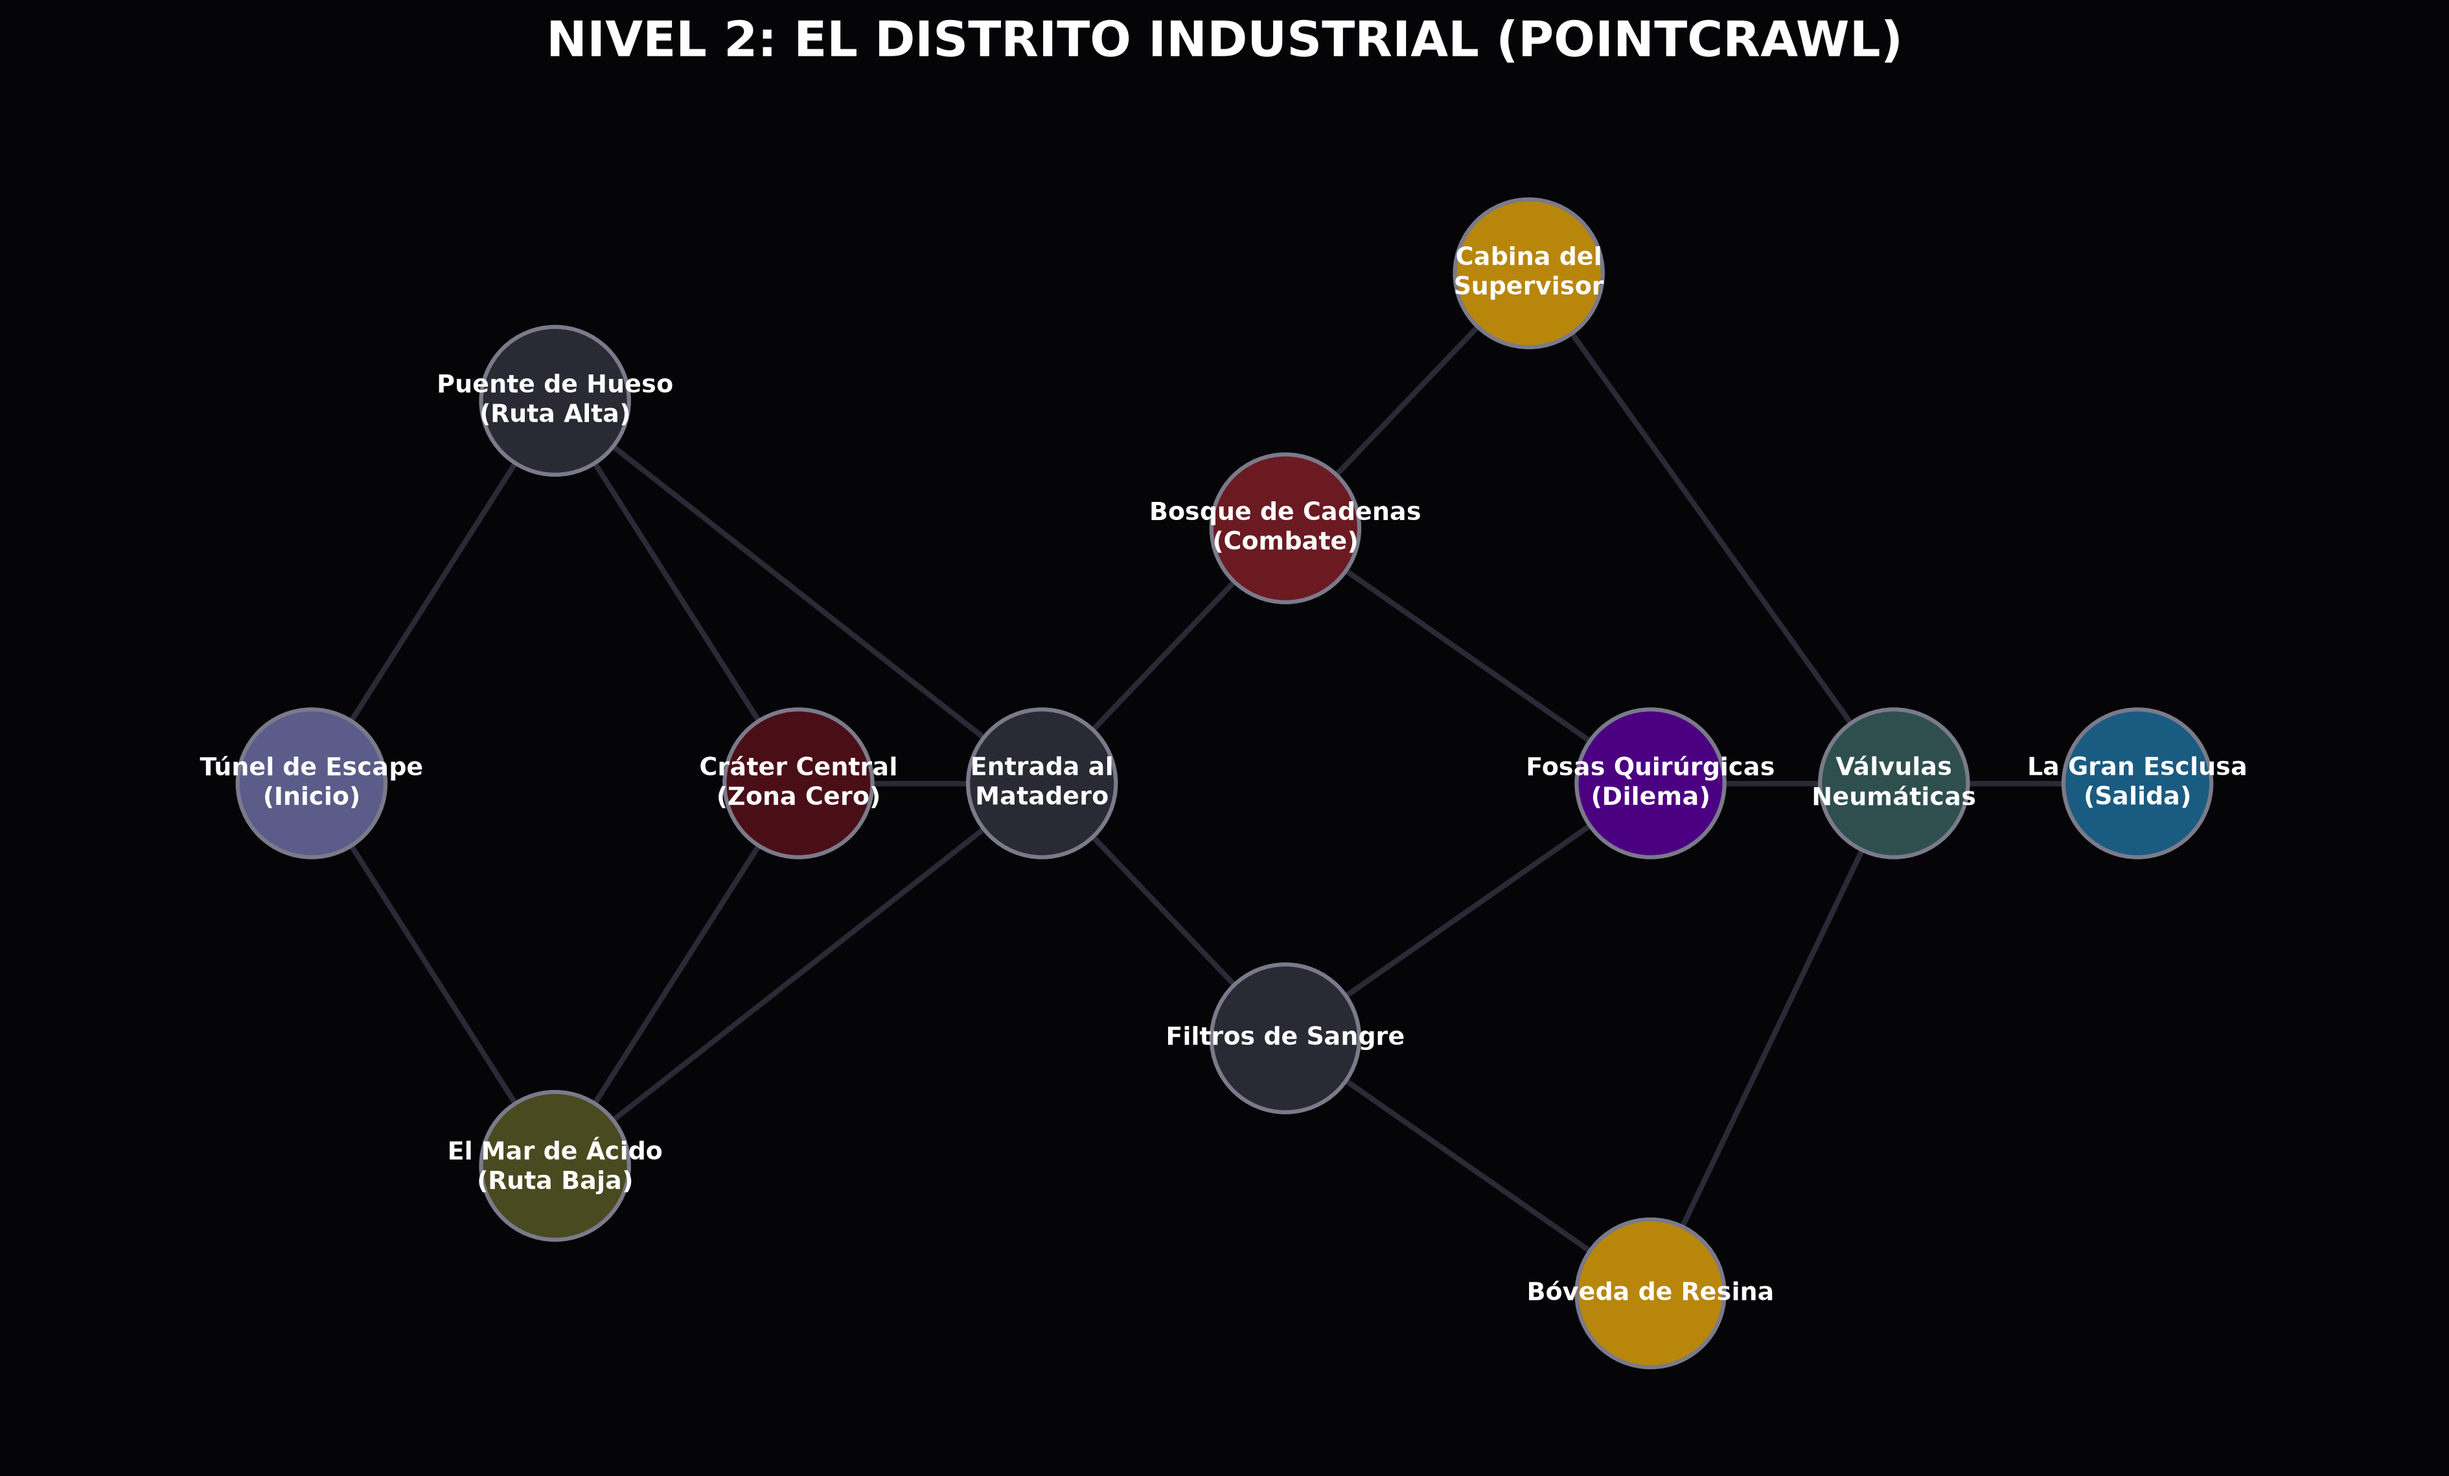
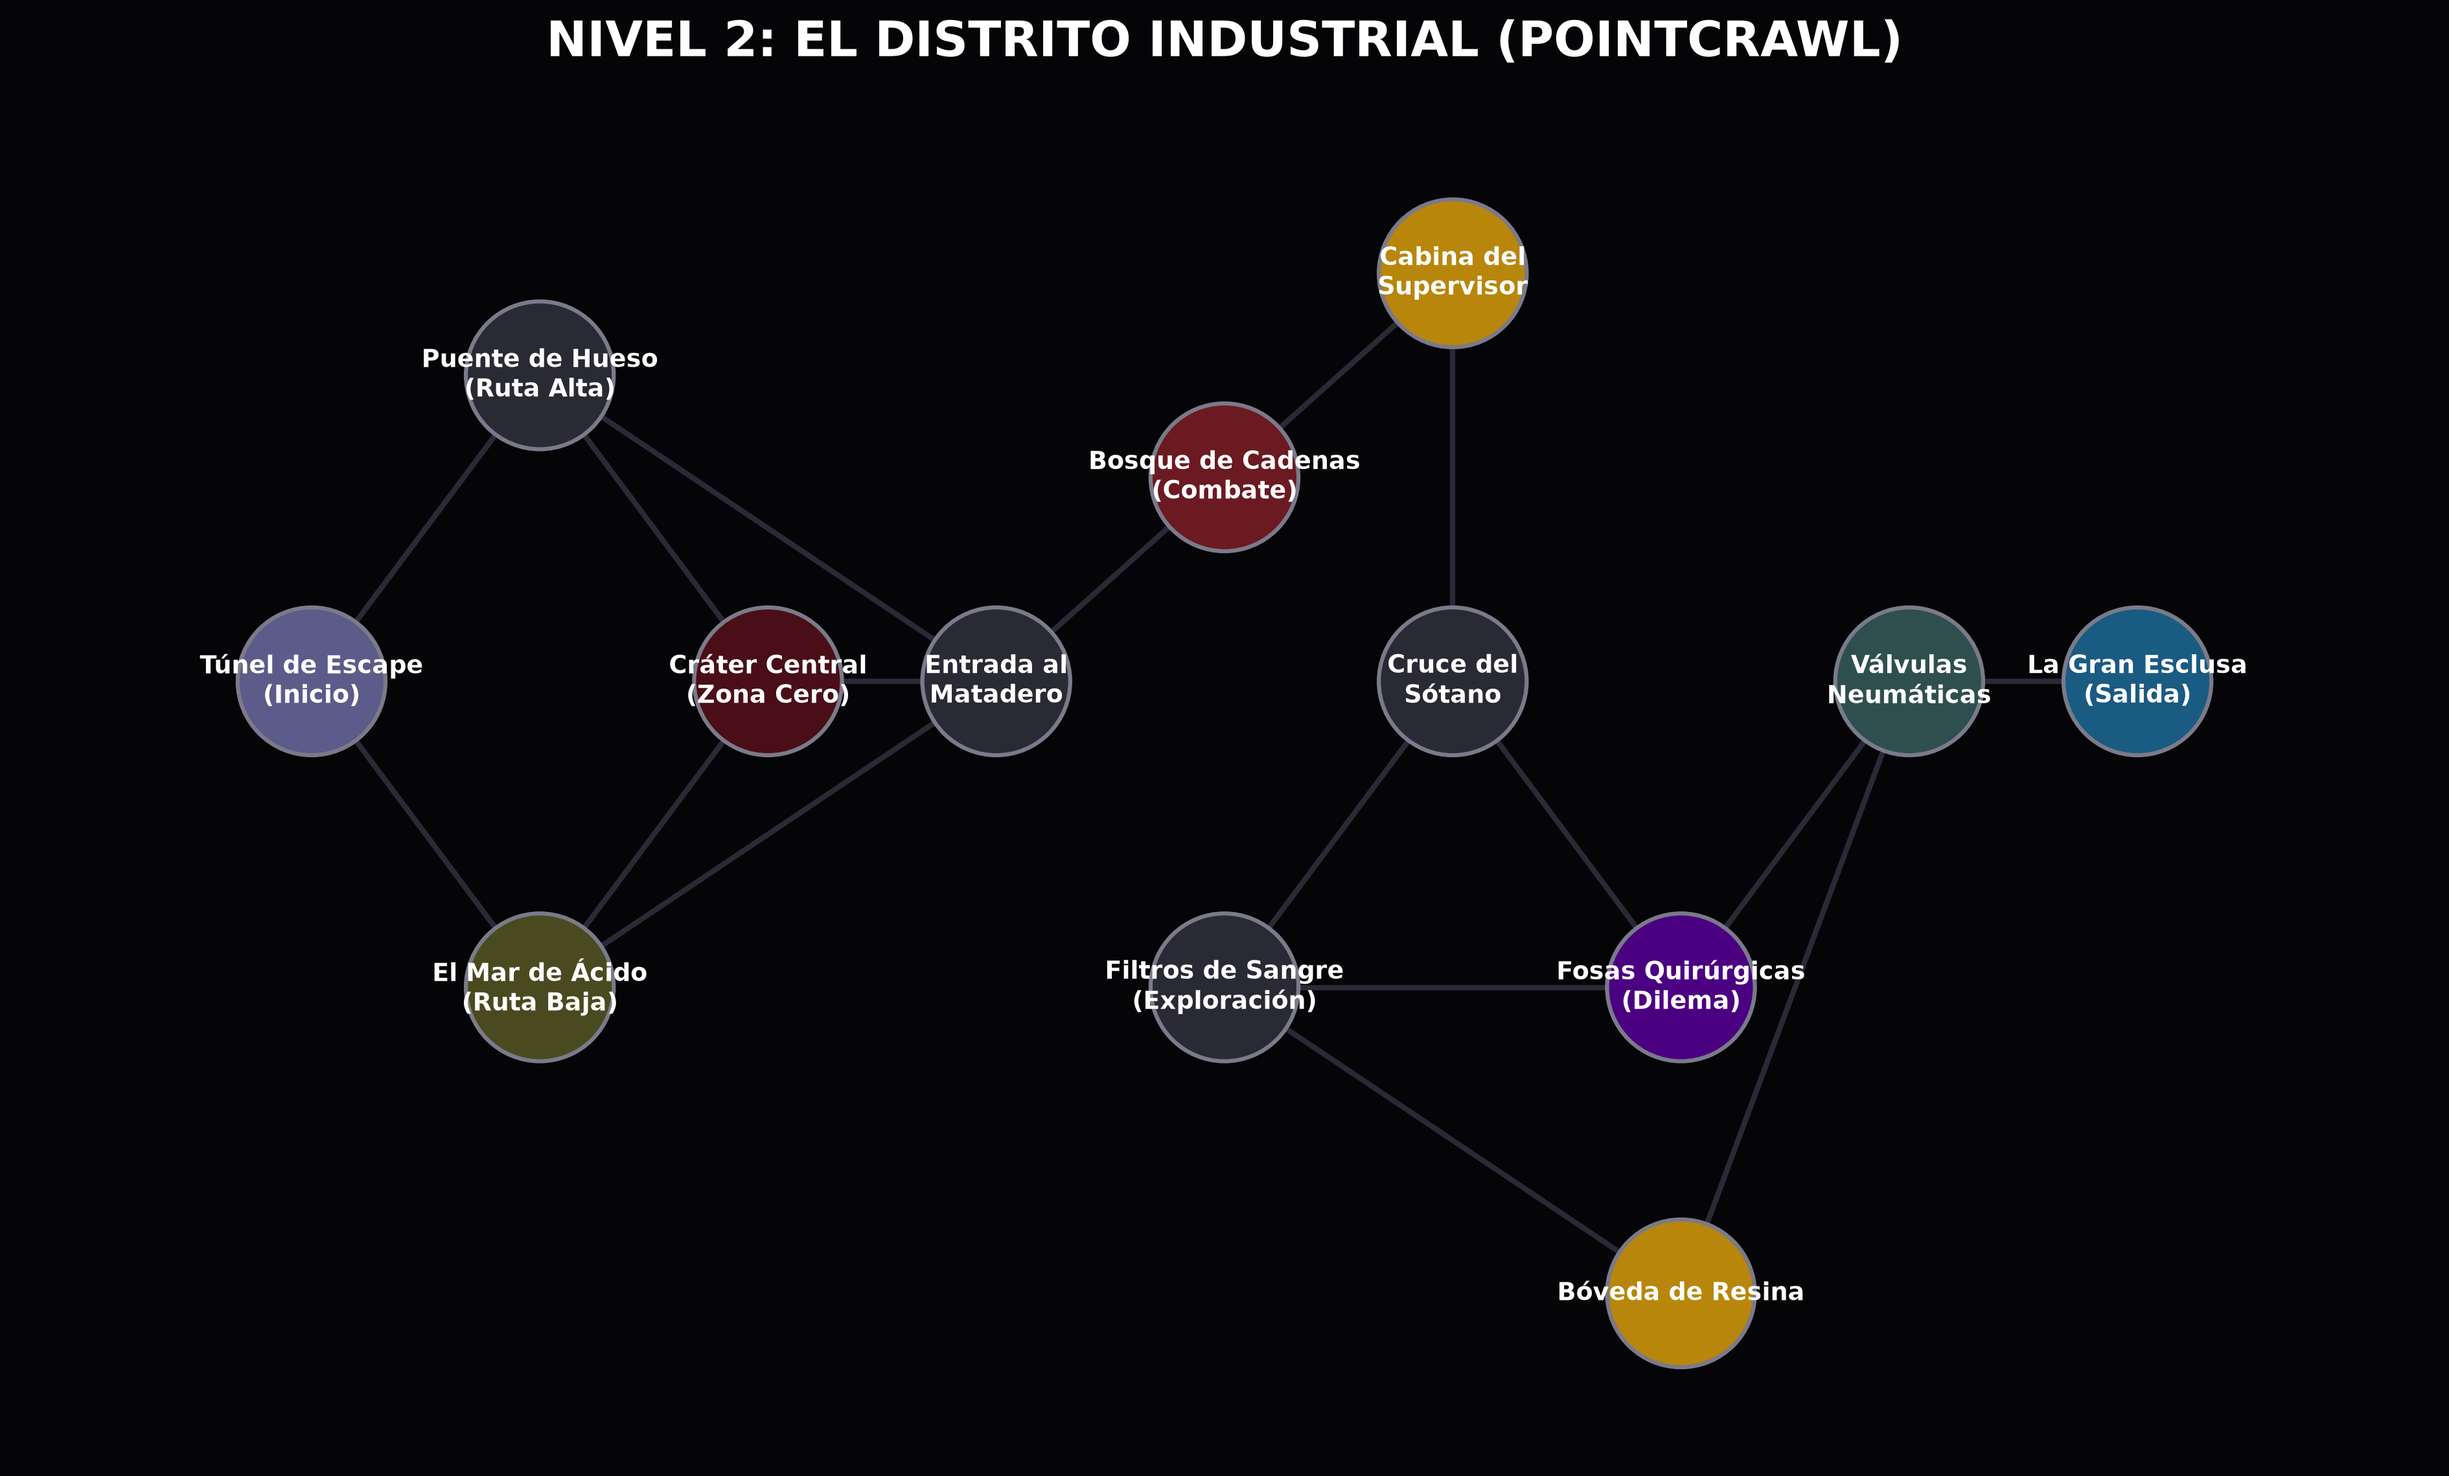
feat(modules): update pointcrawl map and write Module 03 (Filtros de Sangre)

diff --git a/core-books/transcendence-campaign-modules/scripts/generate_map_02.py b/core-books/transcendence-campaign-modules/scripts/generate_map_02.py
@@ -17,16 +17,17 @@ def create_pointcrawl_map(output_path):
         # NODO 2: Nave de Drenaje (Matadero)
         "Entrada al\nMatadero": {"pos": (6, 0), "cat": "path"},
         "Bosque de Cadenas\n(Combate)": {"pos": (8, 1), "cat": "combat"},
-        "Filtros de Sangre": {"pos": (8, -1), "cat": "path"},
         "Cabina del\nSupervisor": {"pos": (10, 2), "cat": "loot"},
+        "Cruce del\nSótano": {"pos": (10, 0), "cat": "path"},
+        "Filtros de Sangre\n(Exploración)": {"pos": (8, -1.5), "cat": "path"},
         
         # NODO 3: Anfiteatros
-        "Fosas Quirúrgicas\n(Dilema)": {"pos": (11, 0), "cat": "story"},
-        "Bóveda de Resina": {"pos": (11, -2), "cat": "loot"},
+        "Fosas Quirúrgicas\n(Dilema)": {"pos": (12, -1.5), "cat": "story"},
+        "Bóveda de Resina": {"pos": (12, -3), "cat": "loot"},
         
         # NODO 4: La Esclusa
-        "Válvulas\nNeumáticas": {"pos": (13, 0), "cat": "puzzle"},
-        "La Gran Esclusa\n(Salida)": {"pos": (15, 0), "cat": "exit"}
+        "Válvulas\nNeumáticas": {"pos": (14, 0), "cat": "puzzle"},
+        "La Gran Esclusa\n(Salida)": {"pos": (16, 0), "cat": "exit"}
     }
     
     # Add nodes to graph
@@ -44,13 +45,13 @@ def create_pointcrawl_map(output_path):
         ("Cráter Central\n(Zona Cero)", "Entrada al\nMatadero"),
         
         ("Entrada al\nMatadero", "Bosque de Cadenas\n(Combate)"),
-        ("Entrada al\nMatadero", "Filtros de Sangre"),
         ("Bosque de Cadenas\n(Combate)", "Cabina del\nSupervisor"),
-        ("Bosque de Cadenas\n(Combate)", "Fosas Quirúrgicas\n(Dilema)"),
-        ("Filtros de Sangre", "Fosas Quirúrgicas\n(Dilema)"),
-        ("Filtros de Sangre", "Bóveda de Resina"),
+        ("Cabina del\nSupervisor", "Cruce del\nSótano"),
+        ("Cruce del\nSótano", "Filtros de Sangre\n(Exploración)"),
+        ("Cruce del\nSótano", "Fosas Quirúrgicas\n(Dilema)"),
+        ("Filtros de Sangre\n(Exploración)", "Bóveda de Resina"),
+        ("Filtros de Sangre\n(Exploración)", "Fosas Quirúrgicas\n(Dilema)"),
         
-        ("Cabina del\nSupervisor", "Válvulas\nNeumáticas"),
         ("Fosas Quirúrgicas\n(Dilema)", "Válvulas\nNeumáticas"),
         ("Bóveda de Resina", "Válvulas\nNeumáticas"),
         

diff --git a/core-books/transcendence-campaign-modules/es/01-contenedores-vacios.md b/core-books/transcendence-campaign-modules/es/01-contenedores-vacios.md
@@ -469,3 +469,44 @@ Una vez derrotados los parásitos, el combate termina pero el trabajo logístico
 *   **Hacia Abajo (Descenso Forzado):** Sin otra opción para activar el montacargas, los jugadores deben abrir unas pesadas escotillas rojas en el suelo de la cabina y descender hacia los sótanos oscuros de la nave: **Los Anfiteatros de Escultura (Nodo 3)**. Desde la negrura del pozo, se escucha el eco de un quejido agonizante.
 
 **FIN DEL MÓDULO 02**
+
+---
+
+# Módulo 03: Los Anfiteatros de Escultura
+
+*Cuarto segmento del módulo introductorio. Un descenso a la oscuridad que divide al grupo entre la exploración táctica por recursos vitales y un dilema moral que subvertirá sus expectativas heroicas.*
+
+## 1. El Cruce del Sótano (La Bifurcación)
+
+Al descender por las frías escotillas de la cabina, los personajes se adentran en el verdadero vientre de la bestia. El aire aquí abajo es radicalmente distinto: denso, caliente y saturado de un olor cobrizo que marea. Un solitario pasillo de metal oxidado avanza unos metros en la penumbra hasta terminar en una intersección en "T". 
+
+En la pared de basalto frente a ellos, un grabado Vesper manchado de sangre indica los caminos:
+*   **A la Izquierda (Oeste):** Un túnel del que emana un espeso vapor verdoso y el sonido de líquido burbujeante. Una placa reza: *Filtros de Sangre / Bóveda de Resina*.
+*   **A la Derecha (Este):** Un pasillo lúgubre, flanqueado por inmensas costillas incrustadas en la roca. De allí proviene un eco inconfundible: la respiración rasposa y los quejidos de algo agonizante. La placa reza: *Fosas Quirúrgicas*.
+
+*(Nota para el Narrador: Los jugadores pueden explorar los Filtros primero para recuperar recursos, o ir directo al origen de los gritos. Esta sección detalla la ruta Oeste. El encuentro en las Fosas se abordará en la siguiente parte del módulo).*
+
+## 2. Los Filtros de Sangre (La Ruta Oeste)
+
+### El Terreno y la Atmósfera
+Si deciden explorar los Filtros de Sangre, el túnel desemboca en una inmensa caverna artificial cilíndrica. No hay suelo visible; la base entera de la caverna es un pozo de **Fango** de 4 metros de profundidad. Este "fango" es una mezcla tóxica de sangre Vesper coagulada, bilis y químicos de embalsamar desechados por las fosas quirúrgicas.
+
+Suspendida a solo centímetros por encima de esta sopa letal, se extiende una intrincada y frágil red de tuberías de bronce, válvulas giratorias, y gigantescos filtros porosos cubiertos de moho. 
+
+En la pared opuesta de la caverna (a unos 20 metros de distancia), parpadean unas luces de emergencia azules, iluminando los **Gabinetes de Esterilización**. A simple vista, los jugadores pueden distinguir los maletines metálicos que contienen *Kits de Conservación*, *Jeringas de Adrenalina* y bio-gel curativo.
+
+### El Desafío de Navegación (Peligro Ambiental)
+Este es un desafío puro de exploración, desgaste y riesgo/recompensa. No hay monstruos aquí; la instalación misma es la trampa mortal.
+
+*   **Peligro Aéreo (Vapor Tóxico):** El ambiente de la caverna exuda gases ácidos. Por cada 10 minutos (tiempo narrativo) que los personajes pasen intentando cruzar, deben realizar una **Tirada de Resistencia contra Venenos**. Si fallan, ganan el Agravio de Veneno: **Escaldado (Leve)** debido a que el alcaloide cáustico les quema las mucosas respiratorias y los ojos, dificultando sus Tiradas de Ataque.
+*   **La Travesía (Acrobacias):** Para avanzar sobre la resbaladiza red de tuberías hacia el botín, los jugadores deben usar su movilidad, equilibro e ingenio. Obliga a tirar pruebas de *Agilidad / Atletismo*. El uso creativo de herramientas (cuerdas, garras de escalada) otorga ventajas. 
+*   **El Castigo del Fango:** Si un personaje falla su prueba de travesía, no muere, pero cae de bruces al pozo de sangre química. El personaje sufre de inmediato **1 Punto de Corrupción** al tragar accidentalmente el fango biológico. Además, salir de la espesa mezcla requiere una tirada de *Fuerza* difícil o la ayuda de un aliado lanzándole una cuerda.
+
+### El Rompecabezas del Botín
+Al llegar a los gabinetes, descubren que están cerrados herméticamente por paneles de cristal templado. Si deciden romper el cristal a la fuerza bruta, se activará un aspersor de purga de emergencia que empapará el botín en ácido, arruinando los suministros médicos y dañando a los jugadores de cerca. 
+
+Para obtener los suministros limpios, deben realizar una prueba de *Intelecto / Sabotaje* para forzar la cerradura neumática Vesper, o ingeniárselas para congelar el aspersor antes de reventar el cristal.
+
+Si tienen éxito, recuperan los suministros vitales, preparándose para lo que sea que esté agonizando en la sala del Este.
+
+**FIN DEL MÓDULO 03 - PARTE 1**
